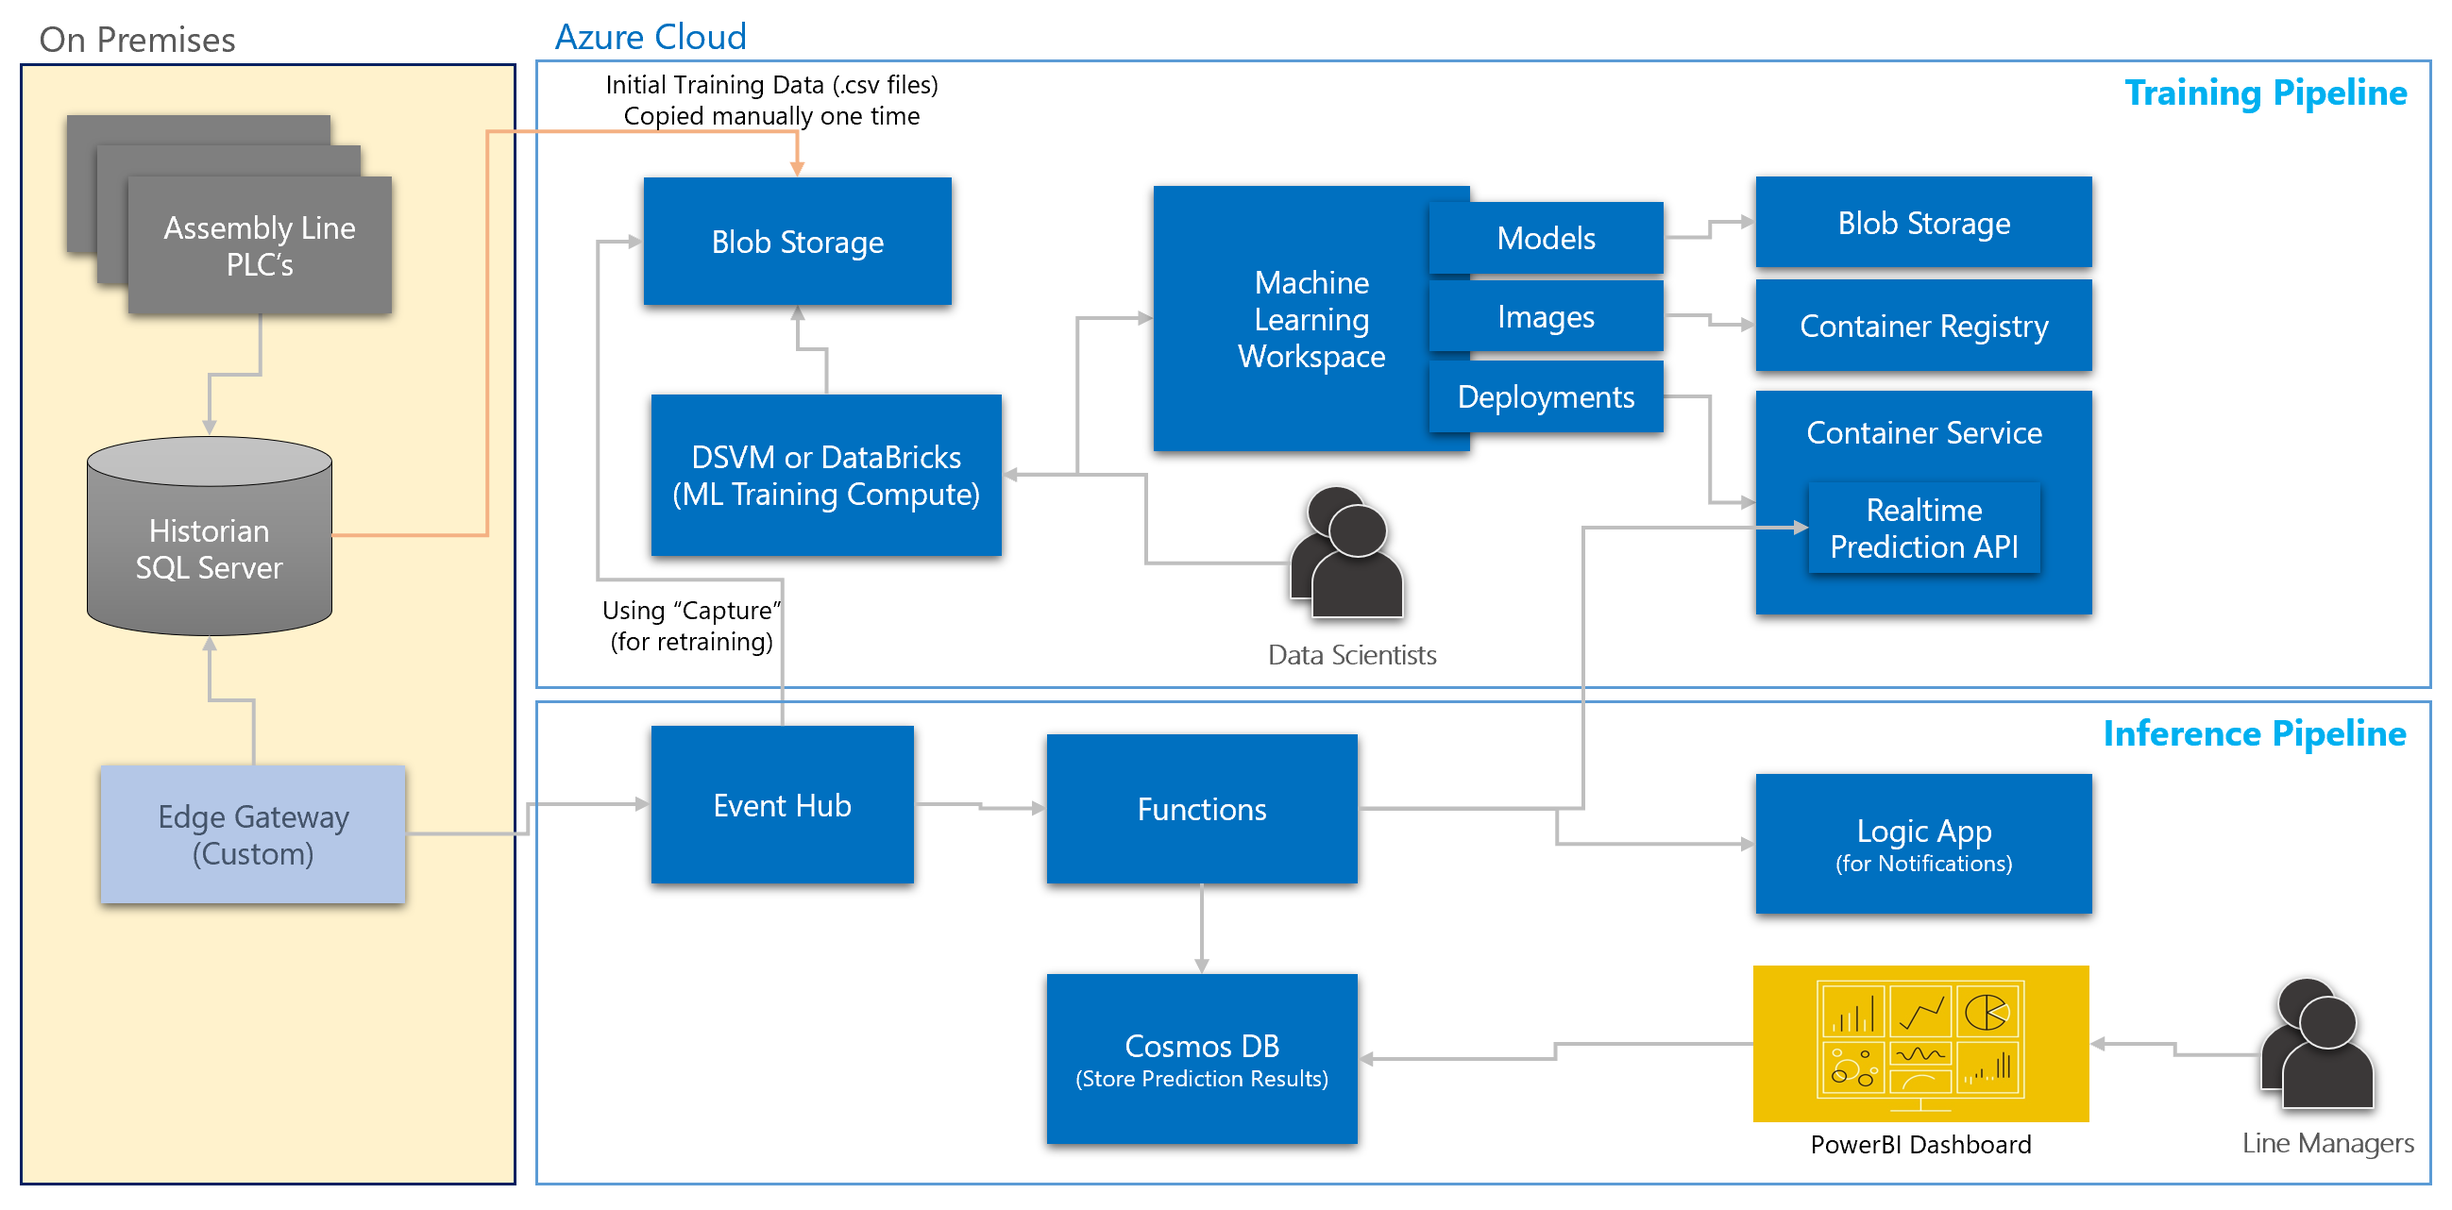
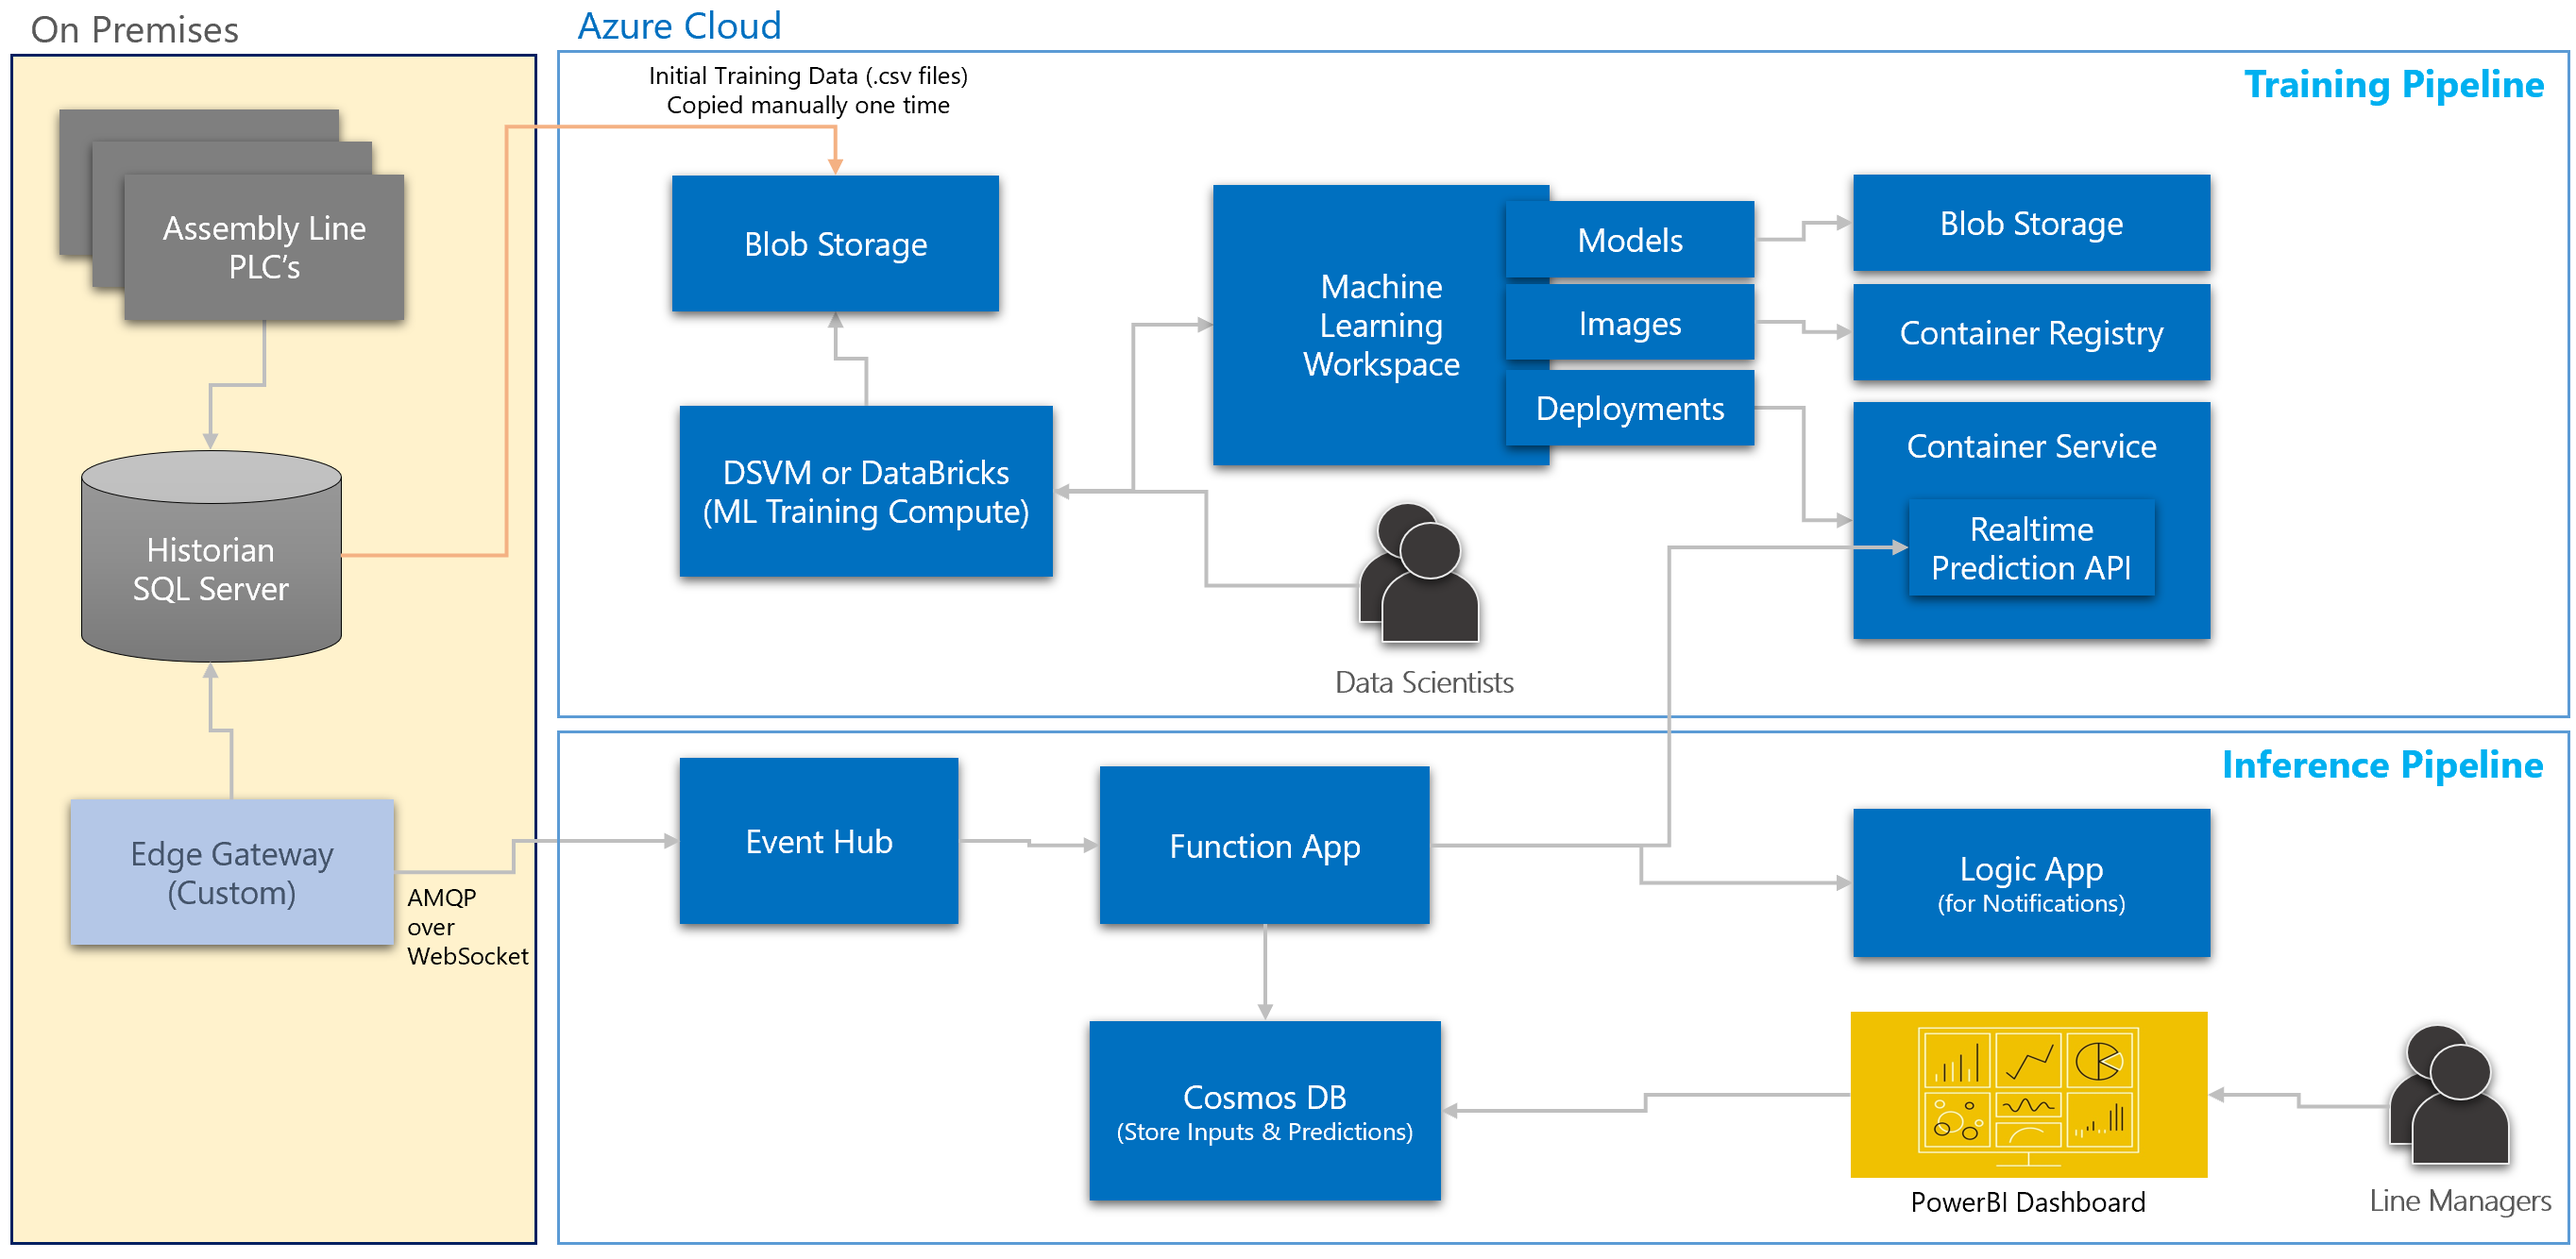
updated edge gateway to use AMQP over WebSocket

diff --git a/edgegateway/app.js b/edgegateway/app.js
@@ -1,6 +1,7 @@
 require("dotenv").load();
 
 const { EventHubClient } = require("@azure/event-hubs");
+const WebSocket = require("ws");
 //var sqlserverdb = require("./sqlserverdb");
 var tempdb = require("./tempdb");
 var logger = require("./logger");
@@ -22,7 +23,7 @@ async function sendSensorData() {
 }
 
 async function sendEventHubMessage(batchId, sensorData) {
-  const client = EventHubClient.createFromConnectionString(connectionString, eventHubsName);
+  const client = EventHubClient.createFromConnectionString(connectionString, eventHubsName, {webSocket: WebSocket});
   var eventData = {
     "body": { data: sensorData, batchId: batchId }
   }

diff --git a/README.md b/README.md
@@ -72,14 +72,11 @@ Improve quality and reduce production scrap by predicting the quality of a produ
         - Update the sql related values in the .env file
         - Update code in `app.js` and `sqlserverdb.js`
 
-#### Retraining Pipeline (In Progress...)
-
-- Query .avro files captured from event hubs...
-- Create retraining dataset and merge it with the training dataset...
-- Retrain the model and deploy the new version of the scoring api...
-
 ### Additional Resources
 
+- [Scalability, Monitoring and Security considerations for using Azure Kubernetes Service to deploy ML Models](https://docs.microsoft.com/en-us/azure/architecture/reference-architectures/ai/realtime-scoring-python#scalability-considerations)
 
+- [Scaling Azure Funcions](https://docs.microsoft.com/en-us/azure/azure-functions/functions-scale)
 
+- [Scaling Azure Event Hubs](https://docs.microsoft.com/en-us/azure/event-hubs/event-hubs-scalability)
 
